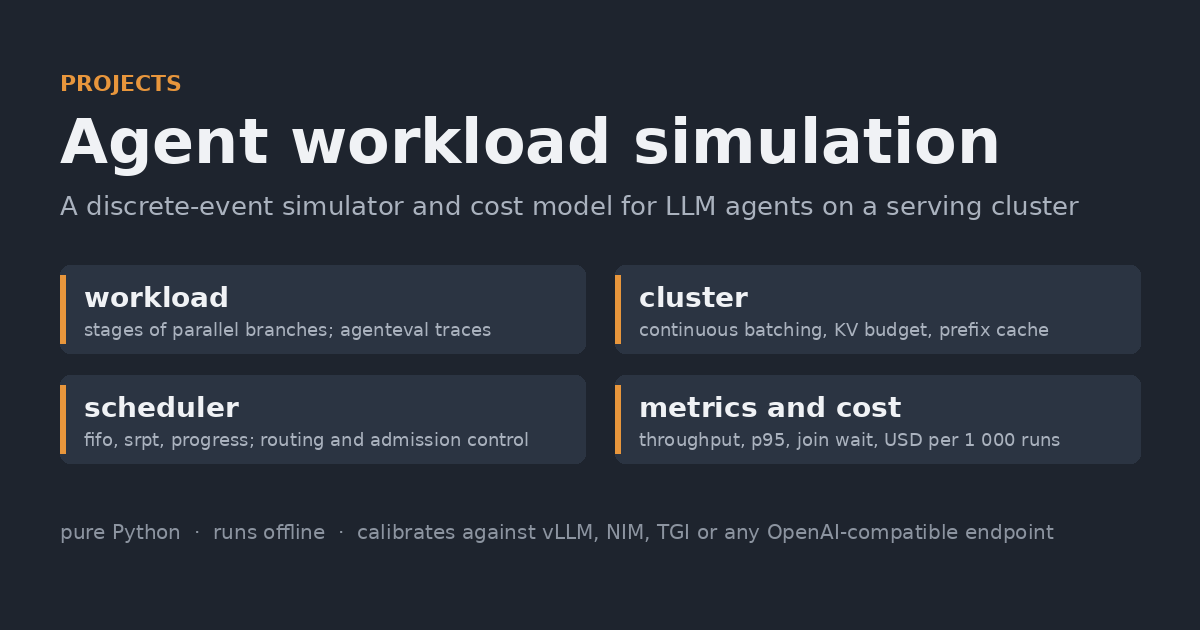
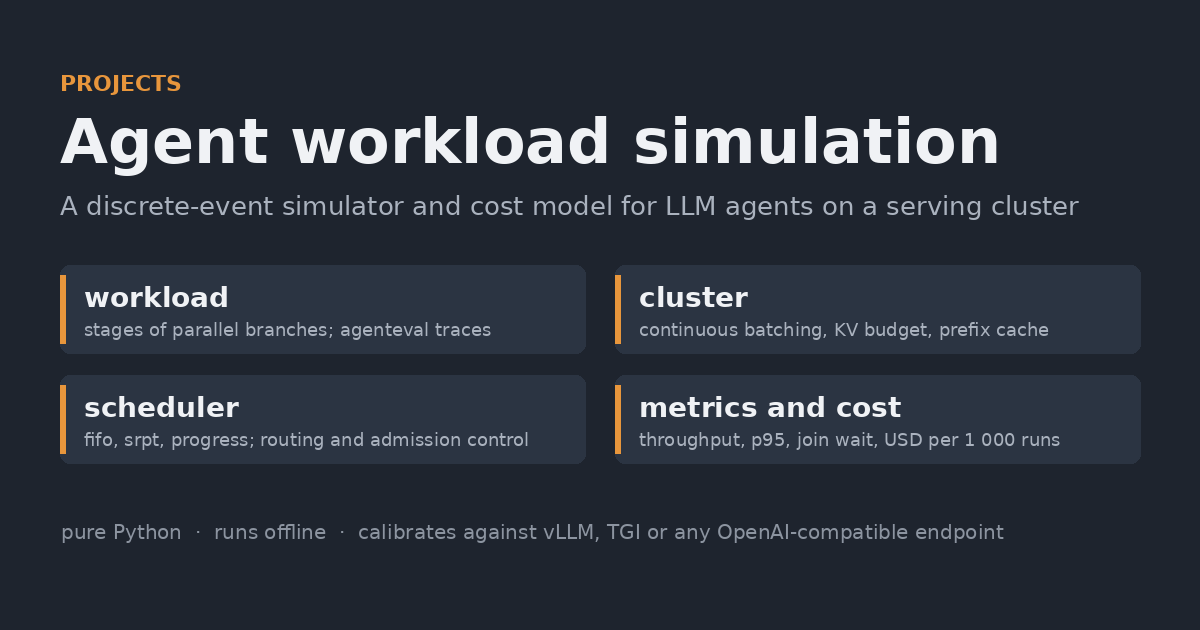
Keep project descriptions tool-neutral

Changed region(s): [[0.3083, 0.8143, 0.8633, 0.8746], [0.185, 0.8143, 0.2775, 0.8746], [0.0617, 0.8143, 0.1542, 0.8746]]

diff --git a/src/content/projects/clinical-agentic-ai/index.md b/src/content/projects/clinical-agentic-ai/index.md
@@ -9,7 +9,6 @@ tags:
 - Agentic AI
 - LLM Agents
 - Healthcare
-- NVIDIA
 - RAG
 short: Clinical agents
 card: From consultation transcripts to reviewable notes; from patient records and
@@ -18,11 +17,11 @@ card: From consultation transcripts to reviewable notes; from patient records an
 
 These independent projects explore clinical documentation, trial pre-screening, clinical study reporting and protein-design research. They draw on problems encountered during my research and industry collaborations, reconstructed in my own time as developer examples.
 
-The common engineering problem is reviewing generated outputs against evidence. The projects combine structured outputs, source references, deterministic checks where applicable, and human-review steps using Nemotron, NVIDIA NIM, NeMo Agent Toolkit and BioNeMo. The scope of each check is documented; these are research and developer examples and have not been clinically validated.
+The common engineering problem is reviewing generated outputs against evidence. The projects combine structured outputs, source references, deterministic checks where applicable, and human-review steps, built with open-weight LLMs, an agent framework and protein-design models. The scope of each check is documented; these are research and developer examples and have not been clinically validated.
 
 ## Watch the workflows
 
-Each recording runs its full repository’s workflow through a reproducible interface. Inputs are synthetic. Consult-to-note, trial-matcher and csr-assistant use clearly labeled scripted model responses; ai-scientist uses its repository’s BioNeMo simulator. These recordings demonstrate software execution without live model endpoints. The recording scope is stated for each project.
+Each recording runs its full repository’s workflow through a reproducible interface. Inputs are synthetic. Consult-to-note, trial-matcher and csr-assistant use clearly labeled scripted model responses; ai-scientist uses its repository’s offline simulator. These recordings demonstrate software execution without live model endpoints. The recording scope is stated for each project.
 
 ### consult-to-note
 
@@ -40,7 +39,7 @@ Each recording runs its full repository’s workflow through a reproducible inte
 
 **Try it offline:** clone [consult-to-note](https://github.com/AnhDuongVo/consult-to-note), install `pip install -e ".[dev]"`, then run `pytest -q`. Tests use synthetic fixtures and model stubs. `c2n demo --no-trials` generates text using a configured model endpoint and requires its credentials; it is a separate live path.
 
-The repository includes batch, streaming and FHIR export paths, plus an ACI-Bench evaluation harness. A NAT invocation returns a preliminary, reviewable draft; clinician approval requires the explicit review workflow. Hosted and self-hosted NVIDIA runs need separate validation.
+The repository includes batch, streaming and FHIR export paths, plus an ACI-Bench evaluation harness. An agent-toolkit invocation returns a preliminary, reviewable draft; clinician approval requires the explicit review workflow. Hosted and self-hosted model runs need separate validation.
 
 ### trial-matcher
 
@@ -90,11 +89,11 @@ Medical writers must review the revised text and unresolved findings. The reposi
 
 {{< video src="ai-scientist.mp4" controls="yes" >}}
 
-**Recording scope:** The [repository interface](https://github.com/AnhDuongVo/ai-scientist/blob/main/examples/workflow.py) runs the actual orchestration with SimulatedBioNeMo and a placeholder target. The video shows design settings, ranked sequences, stage-call trace and the assembled research report. RFdiffusion, ProteinMPNN and Boltz-2 responses are simulated; there is no live inference or literature retrieval. No target sequence is supplied, so folding is binder-only; scores have no biological meaning.
+**Recording scope:** The [repository interface](https://github.com/AnhDuongVo/ai-scientist/blob/main/examples/workflow.py) runs the actual orchestration with its offline simulator and a placeholder target. The video shows design settings, ranked sequences, stage-call trace and the assembled research report. RFdiffusion, ProteinMPNN and Boltz-2 responses are simulated; there is no live inference or literature retrieval. No target sequence is supplied, so folding is binder-only; scores have no biological meaning.
 
 **Try it offline:** clone [ai-scientist](https://github.com/AnhDuongVo/ai-scientist), install `pip install -e ".[dev]"`, then run `sci demo` and `pytest -q`.
 
-The offline structures and scores are synthetic. The composite ranking is a heuristic, not a validated binding prediction. Folding a binder alone does not measure binding. Live BioNeMo calls require real target inputs and separate endpoint validation; experimental follow-up is necessary for scientific conclusions.
+The offline structures and scores are synthetic. The composite ranking is a heuristic, not a validated binding prediction. Folding a binder alone does not measure binding. Live model calls require real target inputs and separate endpoint validation; experimental follow-up is necessary for scientific conclusions.
 
 ## Reproduce and inspect
 

diff --git a/docs/video-production/README.md b/docs/video-production/README.md
@@ -1,6 +1,6 @@
 ## Repository workflow replacements — 13 October 2026
 
-Trial-matcher, csr-assistant and ai-scientist now record each full repository's `examples/workflow.py`. Trial-matcher executes FHIR extraction, criterion assessment, coordinator review and ResearchSubject export with scripted model responses. CSR-assistant executes source loading, ICH E3 structure checks, drafting/revision, writer review and report assembly with scripted model responses. AI-scientist executes the actual orchestration using SimulatedBioNeMo, with no retrieved literature and a placeholder target. It folds the binder alone. These are offline software demonstrations, not live inference or clinical/scientific validation.
+Trial-matcher, csr-assistant and ai-scientist now record each full repository's `examples/workflow.py`. Trial-matcher executes FHIR extraction, criterion assessment, coordinator review and ResearchSubject export with scripted model responses. CSR-assistant executes source loading, ICH E3 structure checks, drafting/revision, writer review and report assembly with scripted model responses. AI-scientist executes the actual orchestration using its offline simulator, with no retrieved literature and a placeholder target. It folds the binder alone. These are offline software demonstrations, not live inference or clinical/scientific validation.
 
 Continuous Chrome tab MediaRecorder footage is cropped to the software. Recorded interaction coordinates drive an eased cursor and brief terracotta click rings. Idle middles are trimmed while preserving interactions and results; playback is slowed to a readable pace. There are no added captions, end cards or audio. `prototype-video-manifest.json` records source duration, click timelines, edits and output hashes. The replaced MP4s, posters and README GIFs are checksum-verified in `old-videos/2026-10-13-before-workflows/` in the relevant repositories. The older production notes below describe superseded recordings.
 
@@ -31,4 +31,4 @@ Eight silent, edited walkthroughs replace the previous clips. Four use screensho
 
 The previous eight MP4s and eight posters are preserved in `old-videos/2026-10-10/`, with SHA-256 checksums. That archive is outside `src/content/projects`, so the site builder does not publish it. Previous repository GIFs are archived in each repository's `old-videos/2026-10-10/` folder.
 
-`manifest.json` records new media checksums. `make_walkthroughs.py` documents composition and encoding; it expects the original local capture workspace and repository paths. Screenshots and command output are local production inputs, not fabricated interface states. No live NVIDIA API or scientific/clinical validation is implied. The separate interview walkthrough runs the real consult-to-note LangGraph pipeline with scripted models, then evaluates its selected dose using agenteval.
+`manifest.json` records new media checksums. `make_walkthroughs.py` documents composition and encoding; it expects the original local capture workspace and repository paths. Screenshots and command output are local production inputs, not fabricated interface states. No live model API or scientific/clinical validation is implied. The separate interview walkthrough runs the real consult-to-note LangGraph pipeline with scripted models, then evaluates its selected dose using agenteval.

diff --git a/src/content/projects/agentic-tooling/index.md b/src/content/projects/agentic-tooling/index.md
@@ -12,7 +12,7 @@ tags:
 - RAG
 - Developer Tools
 short: Tooling
-card: Connect BioNeMo tools to agents, inspect their tool use and check whether cited
+card: Connect scientific model tools to agents, inspect their tool use and check whether cited
   evidence supports selected answer details.
 ---
 
@@ -22,13 +22,13 @@ These tools address recurring integration and evaluation problems I encountered 
 
 **Motivation:** An agent using scientific models needs a clear contract for each tool’s inputs, outputs and errors. Connecting every client directly to endpoint-specific HTTP calls also makes integration difficult to test without credentials or model access.
 
-**What the program does:** mcp-bionemo exposes selected BioNeMo model operations as typed Model Context Protocol (MCP) tools. An MCP client can discover the tools, submit structured requests and receive results through one interface. A deterministic simulator supports offline integration tests, while an optional live backend routes calls to configured NIM endpoints. The project focuses on the integration boundary, not scientific validation.
+**What the program does:** mcp-bionemo exposes selected protein-design model operations (RFdiffusion, ProteinMPNN, Boltz-2) as typed Model Context Protocol (MCP) tools. An MCP client can discover the tools, submit structured requests and receive results through one interface. A deterministic simulator supports offline integration tests, while an optional live backend routes calls to configured hosted endpoints. The project focuses on the integration boundary, not scientific validation.
 
-[mcp-bionemo](https://github.com/AnhDuongVo/mcp-bionemo) exposes selected BioNeMo NIM calls through typed MCP tools and an offline simulator. Its focus is a lightweight interface developers can inspect and test. NVIDIA also offers scientific agent tooling; this project does not claim to be the only integration route.
+[mcp-bionemo](https://github.com/AnhDuongVo/mcp-bionemo) exposes selected model calls through typed MCP tools and an offline simulator. Its focus is a lightweight interface developers can inspect and test; it is one of several possible integration routes.
 
 ![mcp-bionemo CLI input and output](mcp-bionemo.png)
 
-**Example scope:** Actual local MCP discovery and design_backbone invocation against the simulator. This does not validate live BioNeMo NIM endpoints.
+**Example scope:** Actual local MCP discovery and design_backbone invocation against the simulator. This does not validate live model endpoints.
 
 Install `pip install -e ".[dev]"` and run `pytest -q` for simulator and mocked-client tests. The repository includes a stdio MCP-client walkthrough. Set `BIONEMO_BACKEND=live` only when you have endpoint access, credentials and scientifically appropriate inputs. The simulator exercises integration logic and produces meaningless scientific scores.
 

diff --git a/docs/github-profile.md b/docs/github-profile.md
@@ -14,7 +14,7 @@ Machine learning researcher with eight years of AI and data science experience a
 |---|---|
 | [consult-to-note](https://github.com/AnhDuongVo/consult-to-note) | Evidence-linked clinical note drafts, explicit deterministic failure flags, and optional clinician review |
 | [agenteval](https://github.com/AnhDuongVo/agenteval) | Reconciled tool traces, clearly defined metrics, and a 40-minute workshop |
-| [mcp-bionemo](https://github.com/AnhDuongVo/mcp-bionemo) | Typed interfaces for selected BioNeMo endpoints, an offline simulator, and a working stdio client walkthrough |
+| [mcp-bionemo](https://github.com/AnhDuongVo/mcp-bionemo) | Typed interfaces for selected protein-design model endpoints, an offline simulator, and a working stdio client walkthrough |
 | [agentsim](https://github.com/AnhDuongVo/agentsim) | Agent-serving simulation with explicit assumptions and benchmark provenance |
 
 For healthcare workflows, see [trial-matcher](https://github.com/AnhDuongVo/trial-matcher) and [csr-assistant](https://github.com/AnhDuongVo/csr-assistant). These independent showcase implementations are distinct from the original research and industry systems. Each documents tested behavior, untested integrations, and domain-validation limits.
